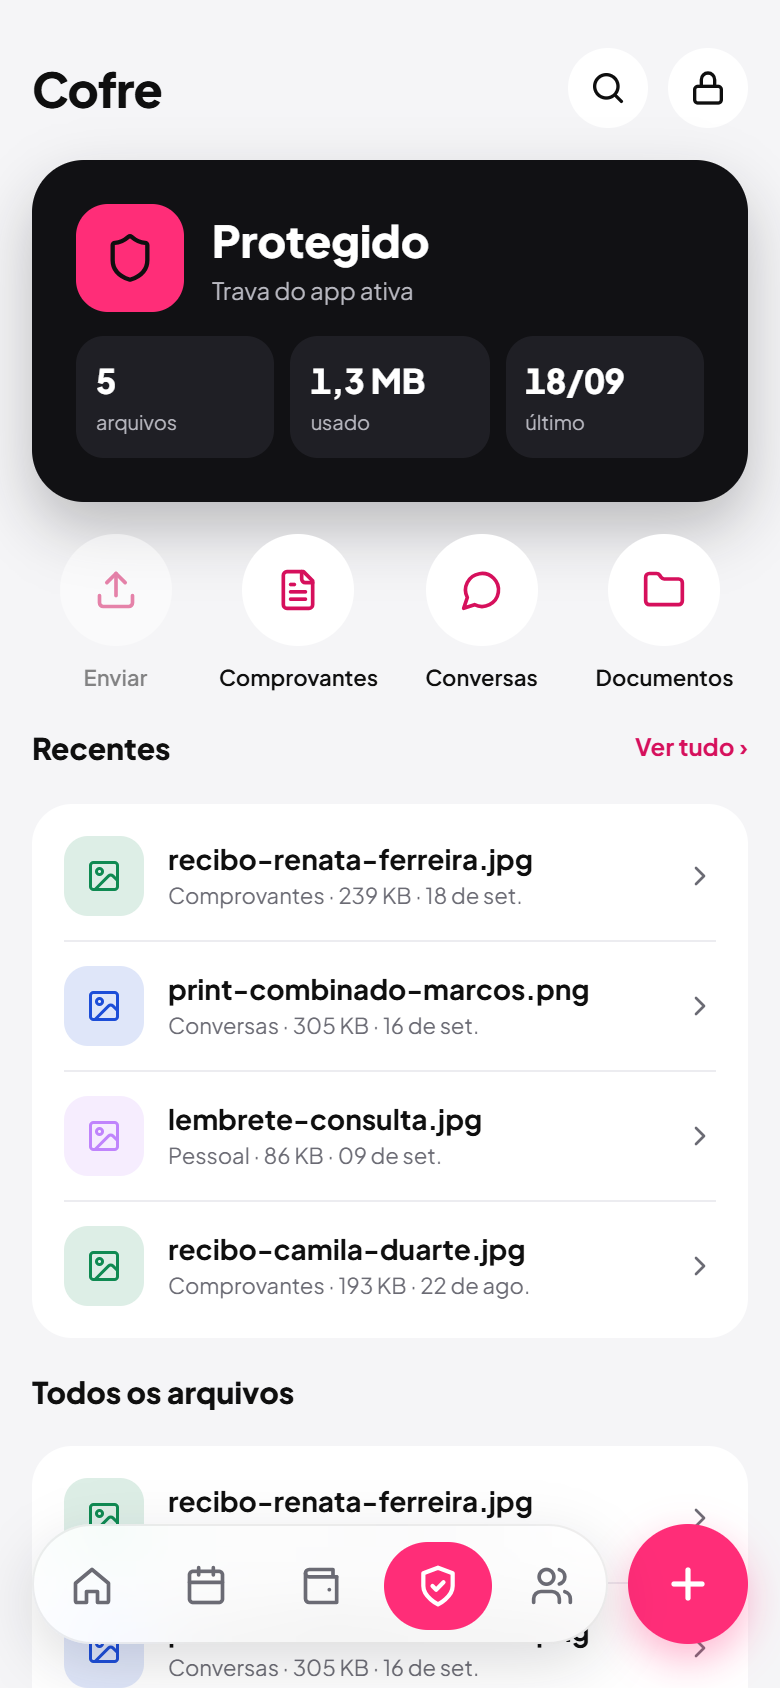
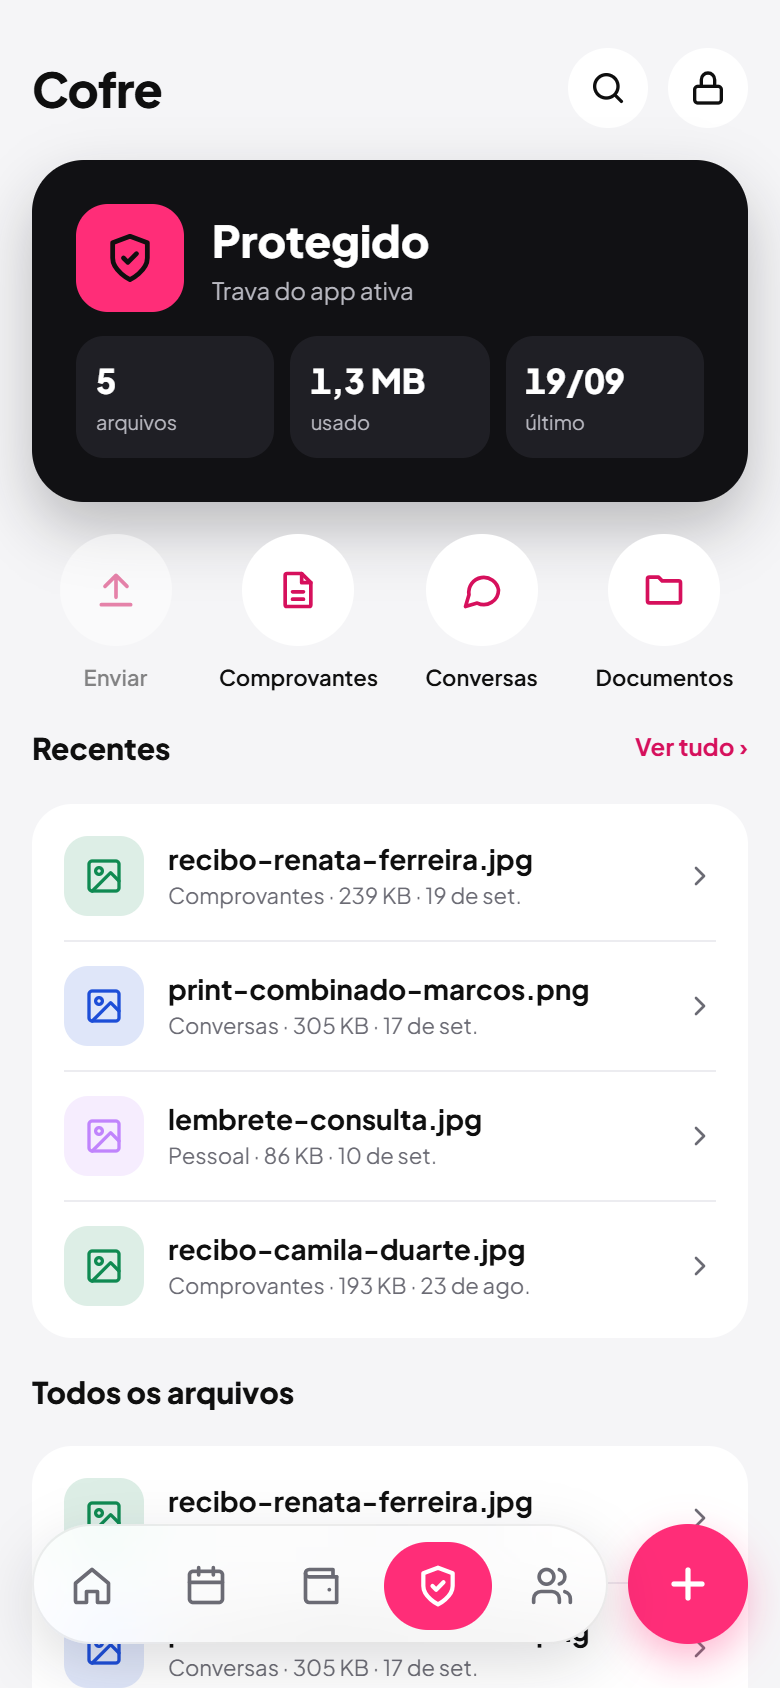
feat(pixel): ícones do Cofre com o traço da referência e datas do laboratório
Os ícones do lucide são parecidos mas não iguais aos da referência: o escudo
com o check dentro, a seta de enviar, a folha com linhas, o balão, a pasta, a
miniatura de imagem e a seta da linha. Agora saem de components/cofre/
cofreIcones.tsx, com os caminhos copiados da própria referência, na mesma
convenção dos ícones da Agenda do 204.

As datas do laboratório recuaram um dia. O daysFromNow devolve a data em UTC e
quem lê faz new Date de uma string só com o dia, que o JS interpreta como
meia-noite UTC; em UTC-3 isso volta para o dia anterior na hora de formatar.
O defeito de fuso é do app e não do laboratório, está registrado para virar
ticket próprio, e aqui a semente compensa para a tela bater com a referência.

A tela saiu de 2,11% para 1,67%.

diff --git a/components/cofre/cofreIcones.tsx b/components/cofre/cofreIcones.tsx
@@ -1,0 +1,109 @@
+/**
+ * Ícones do Cofre com o traço EXATO da referência
+ * (docs/jornada/referencias/5-telas-8-temas-claro-escuro.html, layout C).
+ * Os do lucide-react são parecidos mas não iguais (escudo com o "check"
+ * dentro, seta de enviar, folha com linhas, balão, pasta, miniatura de
+ * imagem, seta da linha): a perfeição de pixel pede o desenho de lá.
+ * Só forma; quem usa decide tamanho e cor (currentColor).
+ *
+ * Mesma convenção dos ícones da Agenda (components/jobs/agendaIcones.tsx).
+ */
+
+import type { CSSProperties, ReactNode } from "react";
+
+function Svg({
+  size,
+  strokeWidth = 2,
+  className,
+  style,
+  children,
+}: {
+  size: number;
+  strokeWidth?: number;
+  className?: string;
+  style?: CSSProperties;
+  children: ReactNode;
+}) {
+  return (
+    <svg
+      className={className}
+      style={style}
+      width={size}
+      height={size}
+      viewBox="0 0 24 24"
+      fill="none"
+      stroke="currentColor"
+      strokeWidth={strokeWidth}
+      strokeLinecap="round"
+      strokeLinejoin="round"
+      aria-hidden="true"
+    >
+      {children}
+    </svg>
+  );
+}
+
+type P = { size?: number; className?: string; style?: CSSProperties };
+
+/** Escudo com o "check" dentro -- o orbe do card "Protegido". */
+export const IconeEscudo = ({ size = 26, ...r }: P) => (
+  <Svg size={size} strokeWidth={2.2} {...r}>
+    <path d="M12 22s8-4 8-10V5l-8-3-8 3v7c0 6 8 10 8 10z" />
+    <path d="m9 12 2 2 4-4" />
+  </Svg>
+);
+
+/** Seta para cima sobre a linha -- azulejo "Enviar". */
+export const IconeEnviar = ({ size = 22, ...r }: P) => (
+  <Svg size={size} {...r}>
+    <path d="M12 16V4M6 10l6-6 6 6M4 20h16" />
+  </Svg>
+);
+
+/** Folha com dobra e duas linhas -- azulejo "Comprovantes". */
+export const IconeComprovante = ({ size = 22, ...r }: P) => (
+  <Svg size={size} {...r}>
+    <path d="M14 3H6a1 1 0 0 0-1 1v16a1 1 0 0 0 1 1h12a1 1 0 0 0 1-1V8z" />
+    <path d="M14 3v5h5M9 13h6M9 17h6" />
+  </Svg>
+);
+
+/** Balão -- azulejo "Conversas". */
+export const IconeConversa = ({ size = 22, ...r }: P) => (
+  <Svg size={size} {...r}>
+    <path d="M21 12a8 8 0 0 1-11.6 7.1L3 21l1.9-6.4A8 8 0 1 1 21 12z" />
+  </Svg>
+);
+
+/** Pasta -- azulejo "Documentos". */
+export const IconePasta = ({ size = 22, ...r }: P) => (
+  <Svg size={size} {...r}>
+    <path d="M3 6a1 1 0 0 1 1-1h5l2 2h9a1 1 0 0 1 1 1v10a1 1 0 0 1-1 1H4a1 1 0 0 1-1-1z" />
+  </Svg>
+);
+
+/** Pessoa -- azulejo "Pessoal" (só no app; a referência não desenha esta
+ *  categoria, então usa-se o mesmo traço do avatar dela). */
+export const IconePessoa = ({ size = 22, ...r }: P) => (
+  <Svg size={size} {...r}>
+    <path d="M16 21v-2a4 4 0 0 0-4-4H6a4 4 0 0 0-4 4v2" />
+    <circle cx="9" cy="7" r="4" />
+    <path d="M22 21v-2a4 4 0 0 0-3-3.87M16 3.13a4 4 0 0 1 0 7.75" />
+  </Svg>
+);
+
+/** Miniatura de imagem -- o quadradinho de cada linha de arquivo. */
+export const IconeArquivoImagem = ({ size = 20, ...r }: P) => (
+  <Svg size={size} {...r}>
+    <rect x="3" y="3" width="18" height="18" rx="2" />
+    <circle cx="9" cy="9" r="2" />
+    <path d="m21 15-5-5L5 21" />
+  </Svg>
+);
+
+/** Seta ">" no fim da linha de arquivo. */
+export const IconeSeta = ({ size = 16, ...r }: P) => (
+  <Svg size={size} {...r}>
+    <path d="m9 18 6-6-6-6" />
+  </Svg>
+);

diff --git a/components/cofre/CofreTab.tsx b/components/cofre/CofreTab.tsx
@@ -1,17 +1,17 @@
 "use client";
 
-import { useState, useEffect, useRef } from "react";
+import { useState, useEffect, useRef, type ReactNode } from "react";
 import { createPortal } from "react-dom";
+import { Search } from "lucide-react";
 import {
-  Shield,
-  Search,
-  Upload,
-  FileText,
-  MessageCircle,
-  Folder,
-  User,
-  LayoutGrid,
-} from "lucide-react";
+  IconeEscudo,
+  IconeEnviar,
+  IconeComprovante,
+  IconeConversa,
+  IconePasta,
+  IconePessoa,
+  IconeArquivoImagem,
+} from "./cofreIcones";
 import { BotaoRedondo, IconeCadeado } from "@/components/ui/cabecalho";
 import { IconeBusca } from "@/components/jobs/agendaIcones";
 import { supabase } from "@/lib/supabase";
@@ -78,13 +78,15 @@ const AZULEJO = {
   color: "var(--accent-deep)",
 } as const;
 const AZULEJO_ROTULO = { fontSize: "11px", fontWeight: 600 } as const;
-const ICONE_CATEGORIA: Record<Categoria, typeof FileText> = {
-  comprovantes: FileText,
-  conversas: MessageCircle,
-  documentos: Folder,
-  pessoal: User,
-  todos: LayoutGrid,
-};
+const ICONE_CATEGORIA: Record<Categoria, (p: { size?: number }) => ReactNode> =
+  {
+    comprovantes: IconeComprovante,
+    conversas: IconeConversa,
+    documentos: IconePasta,
+    pessoal: IconePessoa,
+    // "Todos" não existe na referência: usa a miniatura de arquivo dela.
+    todos: IconeArquivoImagem,
+  };
 /** A ordem do mockup primeiro; o que só existe no app vem depois. */
 const ORDEM_AZULEJOS: Categoria[] = [
   "comprovantes",
@@ -525,12 +527,10 @@ export function CofreTab({
                     color: "var(--text)",
                   }}
                 >
-                  <Shield size={26} />
+                  <IconeEscudo size={26} />
                 </div>
                 <div className="min-w-0">
-                  <h2
-                    style={{ fontSize: "22px", fontWeight: 800 }}
-                  >
+                  <h2 style={{ fontSize: "22px", fontWeight: 800 }}>
                     Protegido
                   </h2>
                   <span
@@ -602,7 +602,7 @@ export function CofreTab({
             style={{ gap: "8px", ...AZULEJO_ROTULO }}
           >
             <span className="grid place-items-center" style={AZULEJO}>
-              <Upload size={22} />
+              <IconeEnviar size={22} />
             </span>
             Enviar
           </button>
@@ -624,7 +624,9 @@ export function CofreTab({
                     ...AZULEJO,
                     // Selecionado: o círculo ganha a tinta do acento. O
                     // desenho (tamanho, raio, rótulo) não muda.
-                    background: ativo ? "var(--accent-tint)" : AZULEJO.background,
+                    background: ativo
+                      ? "var(--accent-tint)"
+                      : AZULEJO.background,
                   }}
                 >
                   <Icone size={22} />

diff --git a/lib/mockAppData.ts b/lib/mockAppData.ts
@@ -643,6 +643,12 @@ export function buildMockAppSeed(opts?: {
     },
   ];
 
+  // Atenção ao dia: `daysFromNow` devolve a data em UTC (`toISOString`) e
+  // quem lê faz `new Date("AAAA-MM-DD")`, que o JS interpreta como meia-noite
+  // UTC -- em UTC-3 isso volta para o dia ANTERIOR na hora de formatar. Por
+  // isso os deslocamentos abaixo são de um dia a menos do que a conta direta
+  // sugere. O defeito de fuso em si é do app, não do laboratório, e está
+  // registrado no PR.
   // Os 5 arquivos são os da referência (tela Cofre, layout C): mesmo nome,
   // mesma categoria, mesmo tamanho impresso e mesma data. Com o relógio em
   // 23/09/2026, "Recentes" (os 4 mais novos) sai exatamente como a tela
@@ -657,7 +663,7 @@ export function buildMockAppSeed(opts?: {
       categoria: "comprovantes",
       size: 244_736, // 239 KB
       mimeType: "image/jpeg",
-      createdAt: daysFromNow(-4), // 19 de set.
+      createdAt: daysFromNow(-3), // 19 de set.
     },
     {
       path: `${uid}/conversas/print-combinado-marcos.png`,
@@ -665,7 +671,7 @@ export function buildMockAppSeed(opts?: {
       categoria: "conversas",
       size: 312_320, // 305 KB
       mimeType: "image/png",
-      createdAt: daysFromNow(-6), // 17 de set.
+      createdAt: daysFromNow(-5), // 17 de set.
     },
     {
       path: `${uid}/pessoal/lembrete-consulta.jpg`,
@@ -673,7 +679,7 @@ export function buildMockAppSeed(opts?: {
       categoria: "pessoal",
       size: 88_064, // 86 KB
       mimeType: "image/jpeg",
-      createdAt: daysFromNow(-13), // 10 de set.
+      createdAt: daysFromNow(-12), // 10 de set.
     },
     {
       path: `${uid}/comprovantes/recibo-camila-duarte.jpg`,
@@ -681,7 +687,7 @@ export function buildMockAppSeed(opts?: {
       categoria: "comprovantes",
       size: 197_632, // 193 KB
       mimeType: "image/jpeg",
-      createdAt: daysFromNow(-31), // 23 de ago.
+      createdAt: daysFromNow(-30), // 23 de ago.
     },
     {
       path: `${uid}/pessoal/rg-frente.jpg`,
@@ -689,7 +695,7 @@ export function buildMockAppSeed(opts?: {
       categoria: "pessoal",
       size: 520_000, // fecha o total do card em 1,3 MB
       mimeType: "image/jpeg",
-      createdAt: daysFromNow(-43), // 11 de ago.
+      createdAt: daysFromNow(-42), // 11 de ago.
     },
     // Fotos dos posts da Rede (principal + miniatura) -- sem blobUrl, o
     // mock serve o placeholder SVG; o que importa é o path existir p/ assinar.

diff --git a/components/cofre/CofreArquivos.tsx b/components/cofre/CofreArquivos.tsx
@@ -1,7 +1,8 @@
 "use client";
 
 import type { ReactNode } from "react";
-import { ChevronRight, File, FileText, Image as ImageIcon } from "lucide-react";
+import { File, FileText } from "lucide-react";
+import { IconeArquivoImagem, IconeSeta } from "./cofreIcones";
 import type { CofreFile } from "@/lib/cofre/cofreCache";
 import { formatDataArquivo, formatTamanho } from "./cofreResumo";
 
@@ -21,8 +22,7 @@ const LIST_STYLE = {
 } as const;
 
 function FileIcon({ mime }: { mime?: string }) {
-  if (mime?.startsWith("image/"))
-    return <ImageIcon size={18} aria-hidden="true" />;
+  if (mime?.startsWith("image/")) return <IconeArquivoImagem size={20} />;
   if (mime?.includes("pdf") || mime?.includes("document"))
     return <FileText size={18} aria-hidden="true" />;
   return <File size={18} aria-hidden="true" />;
@@ -99,7 +99,7 @@ export function ListaArquivos({
                 {formatDataArquivo(f.createdAt)}
               </span>
             </span>
-            <ChevronRight
+            <IconeSeta
               size={16}
               className="shrink-0"
               style={{ color: "var(--text-muted)" }}

diff --git a/docs/jornada/prints/pixel/cofre/cofre-390-claro-pink-neon-estilos.md b/docs/jornada/prints/pixel/cofre/cofre-390-claro-pink-neon-estilos.md
@@ -2,8 +2,8 @@
 
 - mockup: `5-telas-8-temas-claro-escuro.html`
 - app: `http://localhost:3107/dev-preview/app`
-- pareados 154 · divergem 65 · só no mockup 18 · só no app 187
-- impacto total: **72.585**
+- pareados 164 · divergem 60 · só no mockup 8 · só no app 177
+- impacto total: **72.459**
 - famílias no mockup: plus jakarta sans (32)
 - famílias no app: plus jakarta sans (100)
 
@@ -62,67 +62,40 @@ Em cada célula: **mockup** → app.
 |  |  |  |  | backgroundColor | `rgb(241, 234, 254)` → `rgba(192, 132, 252, 0.14)` |
 | 23 | 0.29 | svg | 332,780 · 24x24 | color | `rgb(255, 255, 255)` → `rgb(15, 15, 15)` |
 | 24 | 0.241 | span “Ver tudo ›” | 318,365 · 57x18 | altura | `18px` → `44px` |
-| 25 | 0.159 | svg | 42,755 · 20x20 | color | `rgb(214, 16, 92)` → `rgb(15, 138, 82)` |
-|  |  |  |  | largura | `20px` → `18px` |
-|  |  |  |  | altura | `20px` → `18px` |
-| 26 | 0.143 | svg | 42,950 · 20x20 | color | `rgb(124, 58, 237)` → `rgb(15, 138, 82)` |
-|  |  |  |  | largura | `20px` → `18px` |
-|  |  |  |  | altura | `20px` → `18px` |
-| 27 | 0.125 | svg | 42,885 · 20x20 | color | `rgb(29, 78, 216)` → `rgb(192, 132, 252)` |
-|  |  |  |  | largura | `20px` → `18px` |
-|  |  |  |  | altura | `20px` → `18px` |
-| 28 | 0.109 | svg | 42,820 · 20x20 | color | `rgb(15, 138, 82)` → `rgb(29, 78, 216)` |
-|  |  |  |  | largura | `20px` → `18px` |
-|  |  |  |  | altura | `20px` → `18px` |
-| 29 | 0.103 | path | 46,758 · 12x15 | color | `rgb(214, 16, 92)` → `rgb(15, 138, 82)` |
-|  |  |  |  | largura | `11.7px` → `13.5px` |
-|  |  |  |  | altura | `15px` → `13.5px` |
-| 30 | 0.103 | rect | 45,953 · 15x15 | color | `rgb(124, 58, 237)` → `rgb(15, 138, 82)` |
-|  |  |  |  | largura | `15px` → `13.5px` |
-|  |  |  |  | altura | `15px` → `13.5px` |
-| 31 | 0.09 | rect | 45,888 · 15x15 | color | `rgb(29, 78, 216)` → `rgb(192, 132, 252)` |
-|  |  |  |  | largura | `15px` → `13.5px` |
-|  |  |  |  | altura | `15px` → `13.5px` |
-| 32 | 0.082 | svg | 42,558 · 20x20 | color | `rgb(124, 58, 237)` → `rgb(192, 132, 252)` |
-|  |  |  |  | largura | `20px` → `18px` |
-|  |  |  |  | altura | `20px` → `18px` |
-| 33 | 0.077 | svg | 342,430 · 16x16 | color | `rgb(15, 15, 15)` → `rgb(107, 107, 116)` |
-| 34 | 0.077 | svg | 342,495 · 16x16 | color | `rgb(15, 15, 15)` → `rgb(107, 107, 116)` |
-| 35 | 0.077 | svg | 342,560 · 16x16 | color | `rgb(15, 15, 15)` → `rgb(107, 107, 116)` |
-| 36 | 0.077 | svg | 342,625 · 16x16 | color | `rgb(15, 15, 15)` → `rgb(107, 107, 116)` |
-| 37 | 0.077 | svg | 342,757 · 16x16 | color | `rgb(15, 15, 15)` → `rgb(107, 107, 116)` |
-| 38 | 0.077 | rect | 45,823 · 15x15 | color | `rgb(15, 138, 82)` → `rgb(29, 78, 216)` |
-|  |  |  |  | largura | `15px` → `13.5px` |
-|  |  |  |  | altura | `15px` → `13.5px` |
-| 39 | 0.077 | svg | 342,822 · 16x16 | color | `rgb(15, 15, 15)` → `rgb(107, 107, 116)` |
-| 40 | 0.077 | svg | 342,887 · 16x16 | color | `rgb(15, 15, 15)` → `rgb(107, 107, 116)` |
-| 41 | 0.077 | svg | 342,952 · 16x16 | color | `rgb(15, 15, 15)` → `rgb(107, 107, 116)` |
-| 42 | 0.069 | h2 “Recentes” | 16,363 · 69x23 | gap | `10px` → `normal` |
-| 43 | 0.057 | rect | 45,560 · 15x15 | color | `rgb(124, 58, 237)` → `rgb(192, 132, 252)` |
-|  |  |  |  | largura | `15px` → `13.5px` |
-|  |  |  |  | altura | `15px` → `13.5px` |
-| 44 | 0.042 | div | 32,928 · 326x64 | altura | `64px` → `65px` |
-| 45 | 0.027 | path | 348,434 · 4x8 | color | `rgb(15, 15, 15)` → `rgb(107, 107, 116)` |
-| 46 | 0.027 | path | 348,499 · 4x8 | color | `rgb(15, 15, 15)` → `rgb(107, 107, 116)` |
-| 47 | 0.027 | path | 348,564 · 4x8 | color | `rgb(15, 15, 15)` → `rgb(107, 107, 116)` |
-| 48 | 0.027 | path | 348,629 · 4x8 | color | `rgb(15, 15, 15)` → `rgb(107, 107, 116)` |
-| 49 | 0.027 | path | 348,761 · 4x8 | color | `rgb(15, 15, 15)` → `rgb(107, 107, 116)` |
-| 50 | 0.027 | path | 348,826 · 4x8 | color | `rgb(15, 15, 15)` → `rgb(107, 107, 116)` |
-| 51 | 0.027 | path | 348,891 · 4x8 | color | `rgb(15, 15, 15)` → `rgb(107, 107, 116)` |
-| 52 | 0.027 | path | 348,956 · 4x8 | color | `rgb(15, 15, 15)` → `rgb(107, 107, 116)` |
-| 53 | 0.023 | svg | 42,428 · 20x20 | largura | `20px` → `18px` |
-|  |  |  |  | altura | `20px` → `18px` |
-| 54 | 0.023 | svg | 42,493 · 20x20 | largura | `20px` → `18px` |
-|  |  |  |  | altura | `20px` → `18px` |
-| 55 | 0.023 | svg | 42,623 · 20x20 | largura | `20px` → `18px` |
-|  |  |  |  | altura | `20px` → `18px` |
-| 56 | 0.02 | circle | 48,956 · 3x3 | color | `rgb(124, 58, 237)` → `rgb(15, 138, 82)` |
-| 57 | 0.019 | path | 324,288 · 17x13 | largura | `16.5px` → `18.3px` |
-|  |  |  |  | altura | `12.8px` → `15.6px` |
-| 58 | 0.017 | path | 233,288 · 17x15 | largura | `16.5px` → `17.4px` |
-|  |  |  |  | altura | `14.5px` → `17.4px` |
-| 59 | 0.017 | circle | 48,891 · 3x3 | color | `rgb(29, 78, 216)` → `rgb(192, 132, 252)` |
-| 60 | 0.016 | path | 143,286 · 13x17 | largura | `12.8px` → `14.7px` |
-|  |  |  |  | altura | `16.5px` → `18.3px` |
-
-_(5 elementos de impacto menor omitidos)_
+| 25 | 0.136 | svg | 42,755 · 20x20 | color | `rgb(214, 16, 92)` → `rgb(15, 138, 82)` |
+| 26 | 0.12 | svg | 42,950 · 20x20 | color | `rgb(124, 58, 237)` → `rgb(15, 138, 82)` |
+| 27 | 0.103 | path | 46,758 · 12x15 | color | `rgb(214, 16, 92)` → `rgb(15, 138, 82)` |
+|  |  |  |  | largura | `11.7px` → `15px` |
+| 28 | 0.102 | svg | 42,885 · 20x20 | color | `rgb(29, 78, 216)` → `rgb(192, 132, 252)` |
+| 29 | 0.09 | rect | 45,953 · 15x15 | color | `rgb(124, 58, 237)` → `rgb(15, 138, 82)` |
+| 30 | 0.086 | svg | 42,820 · 20x20 | color | `rgb(15, 138, 82)` → `rgb(29, 78, 216)` |
+| 31 | 0.077 | svg | 342,430 · 16x16 | color | `rgb(15, 15, 15)` → `rgb(107, 107, 116)` |
+| 32 | 0.077 | svg | 342,495 · 16x16 | color | `rgb(15, 15, 15)` → `rgb(107, 107, 116)` |
+| 33 | 0.077 | svg | 342,560 · 16x16 | color | `rgb(15, 15, 15)` → `rgb(107, 107, 116)` |
+| 34 | 0.077 | svg | 342,625 · 16x16 | color | `rgb(15, 15, 15)` → `rgb(107, 107, 116)` |
+| 35 | 0.077 | svg | 342,757 · 16x16 | color | `rgb(15, 15, 15)` → `rgb(107, 107, 116)` |
+| 36 | 0.077 | svg | 342,822 · 16x16 | color | `rgb(15, 15, 15)` → `rgb(107, 107, 116)` |
+| 37 | 0.077 | svg | 342,887 · 16x16 | color | `rgb(15, 15, 15)` → `rgb(107, 107, 116)` |
+| 38 | 0.077 | svg | 342,952 · 16x16 | color | `rgb(15, 15, 15)` → `rgb(107, 107, 116)` |
+| 39 | 0.076 | rect | 45,888 · 15x15 | color | `rgb(29, 78, 216)` → `rgb(192, 132, 252)` |
+| 40 | 0.069 | h2 “Recentes” | 16,363 · 69x23 | gap | `10px` → `normal` |
+| 41 | 0.066 | path | 46,958 · 13x9 | color | `rgb(124, 58, 237)` → `rgb(15, 138, 82)` |
+| 42 | 0.064 | rect | 45,823 · 15x15 | color | `rgb(15, 138, 82)` → `rgb(29, 78, 216)` |
+| 43 | 0.059 | svg | 42,558 · 20x20 | color | `rgb(124, 58, 237)` → `rgb(192, 132, 252)` |
+| 44 | 0.056 | path | 46,893 · 13x9 | color | `rgb(29, 78, 216)` → `rgb(192, 132, 252)` |
+| 45 | 0.047 | path | 46,828 · 13x9 | color | `rgb(15, 138, 82)` → `rgb(29, 78, 216)` |
+| 46 | 0.044 | rect | 45,560 · 15x15 | color | `rgb(124, 58, 237)` → `rgb(192, 132, 252)` |
+| 47 | 0.042 | div | 32,928 · 326x64 | altura | `64px` → `65px` |
+| 48 | 0.033 | path | 46,566 · 13x9 | color | `rgb(124, 58, 237)` → `rgb(192, 132, 252)` |
+| 49 | 0.027 | path | 348,434 · 4x8 | color | `rgb(15, 15, 15)` → `rgb(107, 107, 116)` |
+| 50 | 0.027 | path | 348,499 · 4x8 | color | `rgb(15, 15, 15)` → `rgb(107, 107, 116)` |
+| 51 | 0.027 | path | 348,564 · 4x8 | color | `rgb(15, 15, 15)` → `rgb(107, 107, 116)` |
+| 52 | 0.027 | path | 348,629 · 4x8 | color | `rgb(15, 15, 15)` → `rgb(107, 107, 116)` |
+| 53 | 0.027 | path | 348,761 · 4x8 | color | `rgb(15, 15, 15)` → `rgb(107, 107, 116)` |
+| 54 | 0.027 | path | 348,826 · 4x8 | color | `rgb(15, 15, 15)` → `rgb(107, 107, 116)` |
+| 55 | 0.027 | path | 348,891 · 4x8 | color | `rgb(15, 15, 15)` → `rgb(107, 107, 116)` |
+| 56 | 0.027 | path | 348,956 · 4x8 | color | `rgb(15, 15, 15)` → `rgb(107, 107, 116)` |
+| 57 | 0.02 | circle | 48,956 · 3x3 | color | `rgb(124, 58, 237)` → `rgb(15, 138, 82)` |
+| 58 | 0.017 | circle | 48,891 · 3x3 | color | `rgb(29, 78, 216)` → `rgb(192, 132, 252)` |
+| 59 | 0.014 | circle | 48,826 · 3x3 | color | `rgb(15, 138, 82)` → `rgb(29, 78, 216)` |
+| 60 | 0.01 | circle | 48,563 · 3x3 | color | `rgb(124, 58, 237)` → `rgb(192, 132, 252)` |
